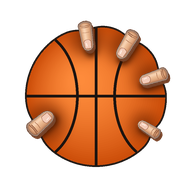
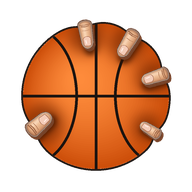
Ícone no tamanho máximo sem cortar os dedos
Claude-Session: https://claude.ai/code/session_01DAz4iiq8WYmx5pkwcnmPEe

diff --git a/sw.js b/sw.js
@@ -1,5 +1,5 @@
 /* ArduLab: abre offline e pega a versão nova sempre que houver internet (rede primeiro). */
-const C='ardulab-v6';
+const C='ardulab-v7';
 self.addEventListener('install',e=>{self.skipWaiting();e.waitUntil(caches.open(C).then(c=>c.addAll(['./','./index.html','./manifest.json','./icon-192.png','./icon-512.png']).catch(()=>{})))});
 self.addEventListener('activate',e=>e.waitUntil(self.clients.claim()));
 self.addEventListener('fetch',e=>{const u=new URL(e.request.url);if(e.request.method!=='GET'||u.origin!==location.origin)return;
